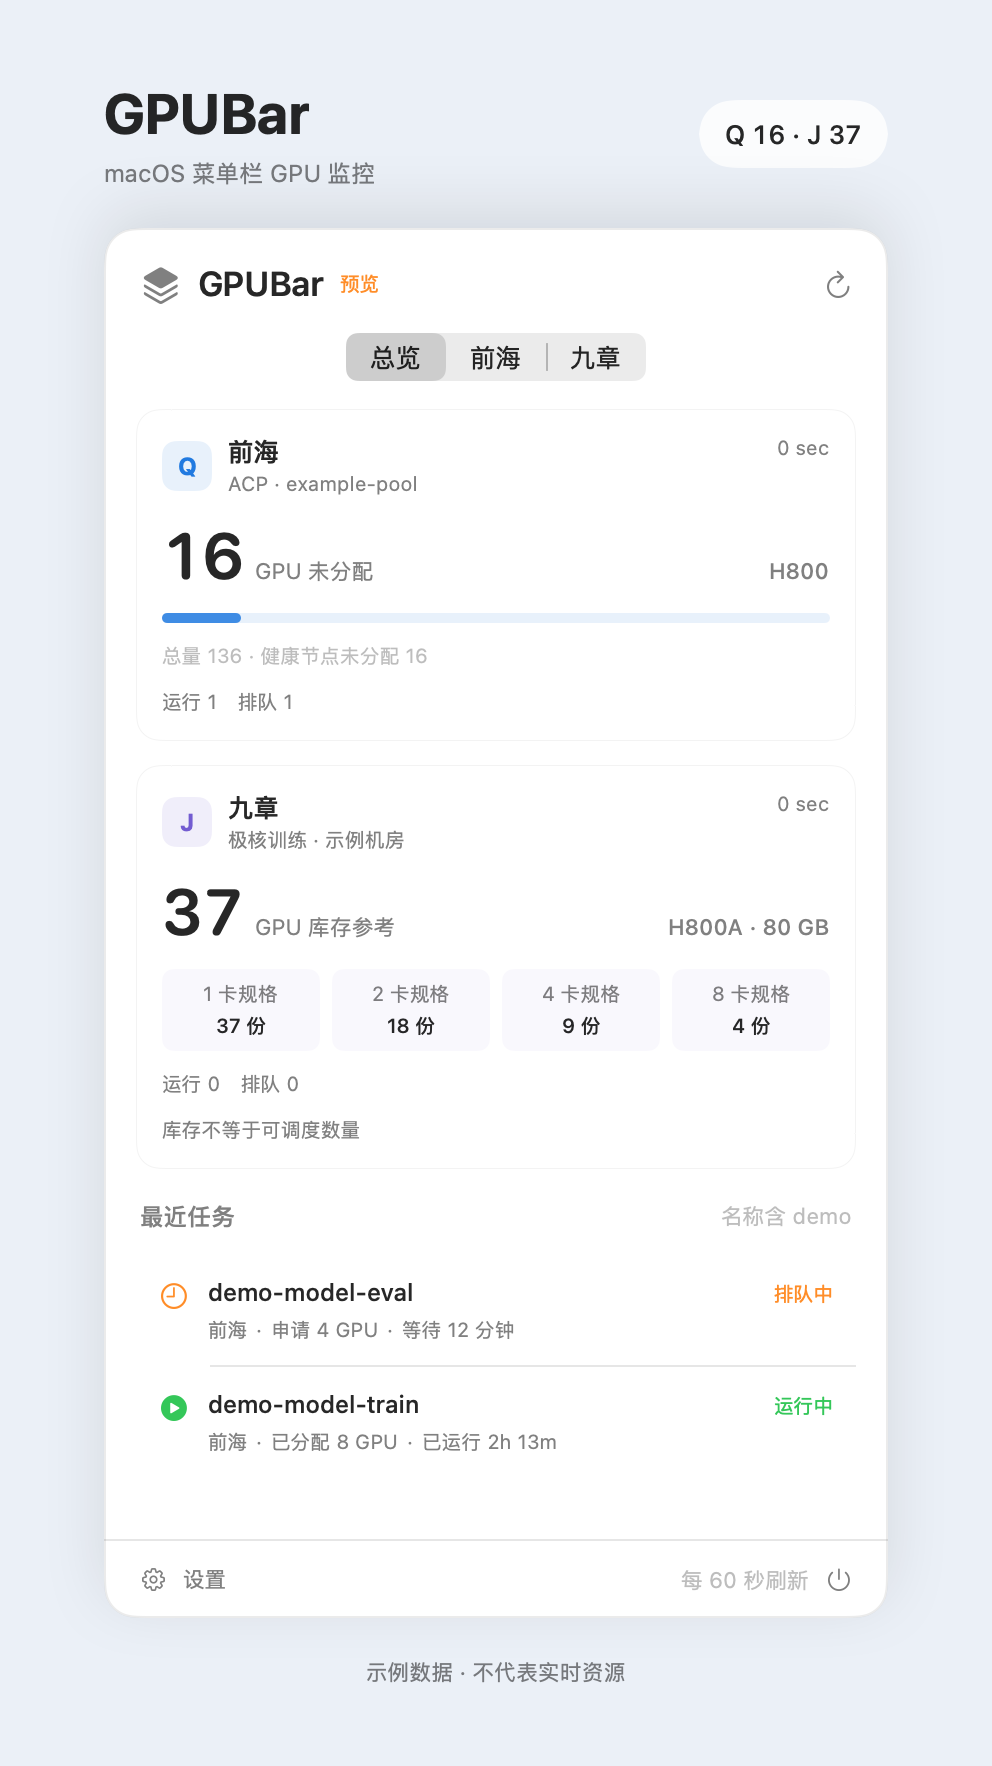
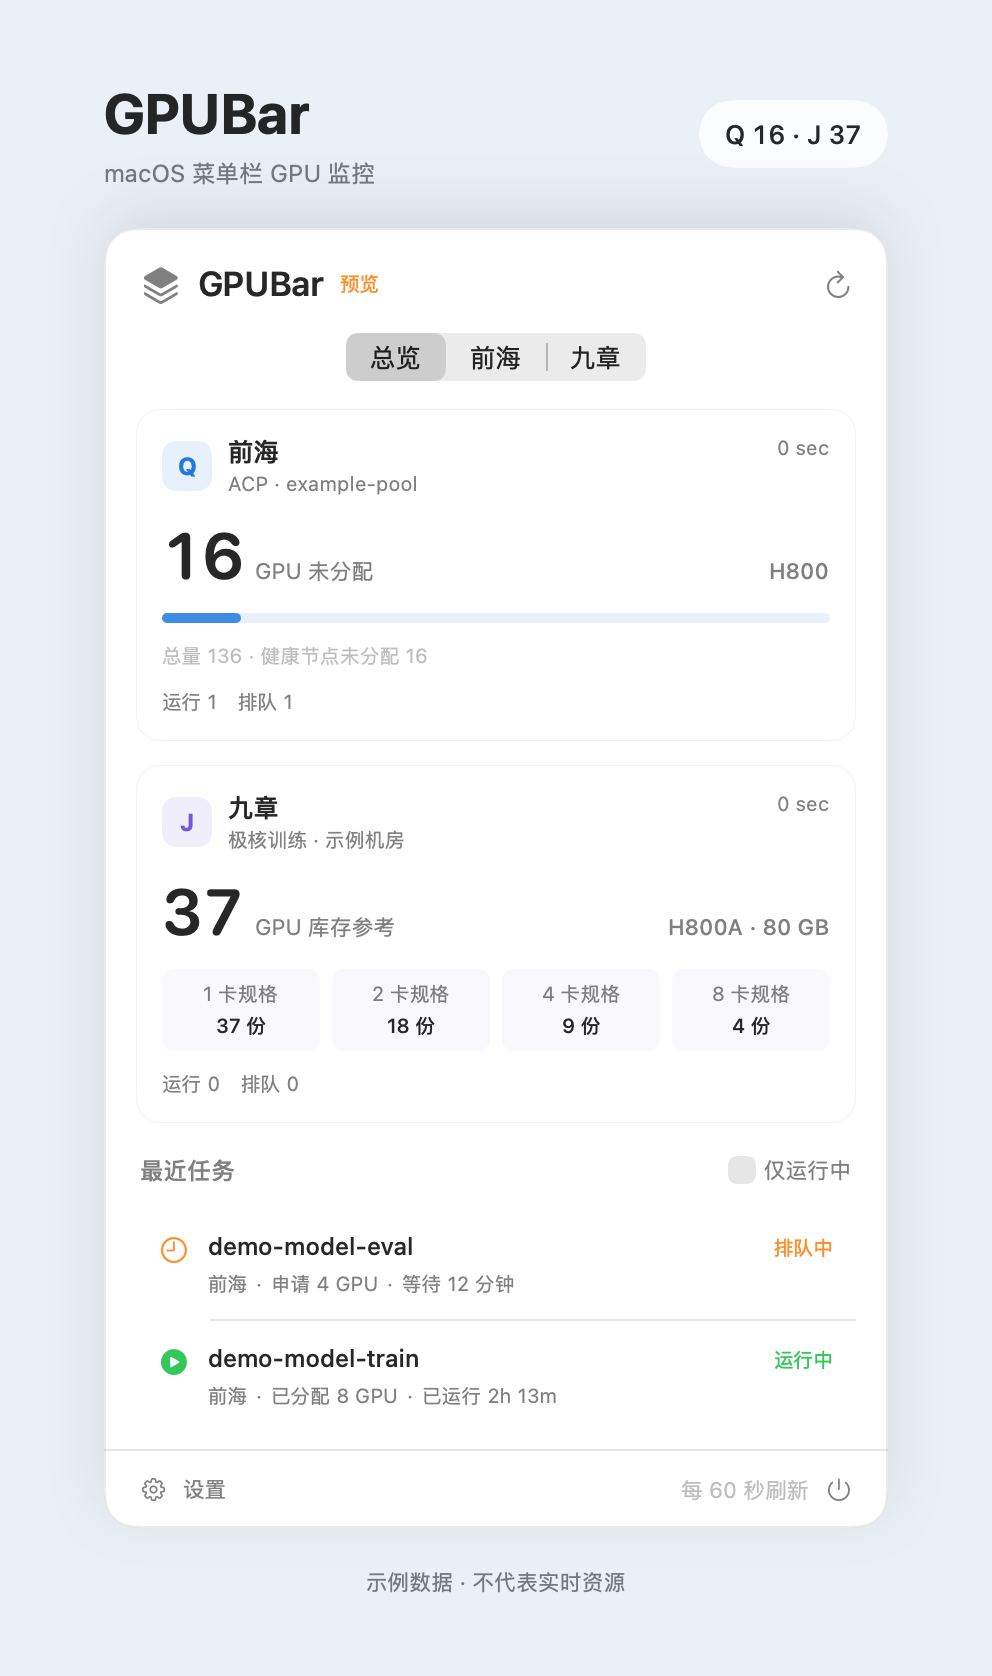
Add running-task filter and adaptive menu bar summary

diff --git a/Sources/GPUBar/Views.swift b/Sources/GPUBar/Views.swift
@@ -31,21 +31,29 @@ extension JobState {
 
 struct MenuLabel: View {
     @ObservedObject var store: AppStore
+    private var platforms: [Platform] {
+        Platform.allCases.filter { store.configured.contains($0) && store.configuration.isConfigured($0) }
+    }
     private var title: String {
-        Platform.allCases.map { platform in
+        platforms.map { platform in
             let value = store.snapshots[platform]?.capacity?.availableGPUs.map(String.init) ?? "—"
             return "\(platform.abbreviation) \(value)"
         }.joined(separator: " · ")
     }
     var body: some View {
-        // MenuBarExtra bridges its label to a native status item. Keep both
-        // platforms in one Text so neither is lost during label extraction.
-        Text(title)
-            .monospacedDigit()
-            .fixedSize()
-            .opacity(Platform.allCases.contains { store.stale($0) } ? 0.55 : 1)
-            .accessibilityLabel("GPUBar GPU 资源摘要：\(title)")
-            .help("Q：前海健康节点未分配 GPU；J：九章所选机房库存参考。点击查看范围与任务。")
+        if platforms.isEmpty {
+            Image(systemName: "square.stack.3d.up.fill")
+                .accessibilityLabel("GPUBar")
+                .help("GPUBar：点击配置平台")
+        } else {
+            // Keep all platforms in one Text for native status-item extraction.
+            Text(title)
+                .monospacedDigit()
+                .fixedSize()
+                .opacity(platforms.contains { store.stale($0) } ? 0.55 : 1)
+                .accessibilityLabel("GPUBar GPU 资源摘要：\(title)")
+                .help("GPUBar：点击查看资源与任务")
+        }
     }
 }
 
@@ -56,7 +64,8 @@ struct DashboardView: View {
     @Environment(\.openWindow) private var openWindow
     private var platforms: [Platform] { selected == "overview" ? Platform.allCases : Platform.allCases.filter { $0.rawValue == selected } }
     private var recentJobs: [Job] {
-        Array(platforms.flatMap { store.snapshots[$0]?.jobs ?? [] }.sorted {
+        Array(platforms.flatMap { store.snapshots[$0]?.jobs ?? [] }
+            .filter { !store.runningOnly || $0.state == .running }.sorted {
             let left = $0.createdAt ?? .distantPast
             let right = $1.createdAt ?? .distantPast
             return left == right ? $0.id < $1.id : left > right
@@ -85,8 +94,9 @@ struct DashboardView: View {
                     HStack {
                         Text("最近任务").font(.system(size: 12, weight: .semibold)).foregroundStyle(.secondary)
                         Spacer()
-                        Text(store.filter.isEmpty ? "全部名称" : "名称含 \(store.filter)")
-                            .font(.system(size: 11)).foregroundStyle(.tertiary).lineLimit(1)
+                        Toggle("仅运行中", isOn: $store.runningOnly)
+                            .toggleStyle(.checkbox).controlSize(.small)
+                            .font(.system(size: 11)).foregroundStyle(.secondary)
                     }.padding(.top, 4).padding(.horizontal, 2)
                     ForEach(platforms) { platform in
                         if let error = store.errors[platform]?["jobs"] {
@@ -129,11 +139,11 @@ struct DashboardView: View {
         if platforms.allSatisfy({ !store.configured.contains($0) }) { return "连接平台以查看任务" }
         if platforms.allSatisfy({ store.snapshots[$0]?.jobsAt == nil }) { return store.refreshing.isEmpty ? "尚未获取任务" : "正在读取任务…" }
         if platforms.contains(where: { store.errors[$0]?["jobs"] != nil }) { return "任务查询未完成" }
-        return "没有匹配的任务"
+        return store.runningOnly ? "没有运行中的任务" : "没有匹配的任务"
     }
     private var emptySubtitle: String {
-        if platforms.allSatisfy({ !store.configured.contains($0) }) { return "在设置中保存两个平台的 Access Key。" }
-        return store.filter.isEmpty ? "显示所选范围内的平台任务。" : "仅显示名称包含“\(store.filter)”的任务。"
+        if platforms.allSatisfy({ !store.configured.contains($0) }) { return "在设置中连接要查看的平台。" }
+        return store.runningOnly ? "取消勾选可查看其他状态的任务。" : "可在设置中调整任务筛选。"
     }
 }
 
@@ -201,7 +211,7 @@ struct CapacityCard: View {
                 if let error = store.errors[platform]?["capacity"] ?? store.errors[platform]?["credentials"] ?? store.errors[platform]?["configuration"] {
                     Label(error, systemImage: "exclamationmark.triangle").font(.system(size: 10)).foregroundStyle(.orange)
                 }
-                if platform == .jiuzhang {
+                if expanded && platform == .jiuzhang {
                     Text("库存不等于可调度数量").font(.system(size: 10)).foregroundStyle(.secondary)
                 }
                 if expanded, let explanation = snapshot.capacity?.explanation {

diff --git a/Sources/GPUBar/Store.swift b/Sources/GPUBar/Store.swift
@@ -19,6 +19,11 @@ final class AppStore: ObservableObject {
     @Published var filter: String
     @Published var interval: Double
     @Published var notifications: Bool
+    @Published var runningOnly: Bool {
+        didSet {
+            if !preview { UserDefaults.standard.set(runningOnly, forKey: "runningJobsOnly") }
+        }
+    }
     @Published var notice: String?
     let preview: Bool
     private var tasks: [Platform: Task<Void, Never>] = [:]
@@ -44,6 +49,7 @@ final class AppStore: ObservableObject {
         let saved = defaults.double(forKey: "refreshInterval")
         self.interval = [30.0, 60, 120, 300].contains(saved) ? saved : 60
         self.notifications = defaults.bool(forKey: "notifyOnCompletion")
+        self.runningOnly = preview ? false : defaults.bool(forKey: "runningJobsOnly")
         if preview { loadPreview(); return }
         if let data = try? Data(contentsOf: cacheURL), let cache = try? JSONDecoder().decode([Platform: Snapshot].self, from: data) {
             snapshots = cache

diff --git a/README.md b/README.md
@@ -8,17 +8,17 @@ GPUBar 将前海 ACP 和九章极核训练的 GPU 资源、任务状态与完成
 
 <img src="docs/images/overview.png" alt="GPUBar 界面示例：菜单栏摘要、前海 GPU 未分配量、九章规格库存，以及排队和运行中的任务" width="496">
 
-原生界面渲染，使用示例数据；面板加高以完整展示任务列表。
+原生界面渲染，使用示例数据。
 
 ## 功能
 
 | 功能 | 使用方式 |
 |---|---|
-| 菜单栏资源摘要 | 同时显示两个平台的数字，例如 `Q 16 · J 37`，随后台刷新更新 |
+| 菜单栏资源摘要 | 按已连接的平台显示数字：单平台如 `Q 16`，双平台如 `Q 16 · J 37`；未配置时显示应用图标 |
 | 双平台总览 | 点击菜单栏查看两平台资源卡片，也可切换到前海或九章单独查看 |
 | GPU 资源明细 | 前海展示总量、健康节点未分配量和比例条；九章展示 GPU 型号及 1／2／4／8 卡等规格的库存 |
 | 任务进展跟踪 | 查看排队、启动、运行、暂停、完成、失败和取消状态，以及等待时间或运行时长 |
-| 任务筛选与详情 | 按名称筛选最近任务，查看 GPU 数量、节点数、时间和平台返回的状态详情，复制任务 ID 或打开控制台 |
+| 任务筛选与详情 | 勾选“仅运行中”快速筛选，也可在设置中按名称筛选；查看任务详情、复制任务 ID 或打开控制台 |
 | 桌面通知 | 任务成功或失败时发送 macOS 通知，显示平台、结果和任务名称 |
 | 自动刷新 | 可选 30 秒、60 秒、2 分钟或 5 分钟，也可随时手动刷新 |
 | 登录启动 | 登录 Mac 后自动运行，在菜单栏持续监控 |
@@ -26,6 +26,8 @@ GPUBar 将前海 ACP 和九章极核训练的 GPU 资源、任务状态与完成
 ### 跟踪任务进展
 
 在“设置 → 任务名称包含”中输入项目名、实验前缀或用户名，例如 `demo`。筛选忽略大小写，留空可查看所选资源范围内的所有任务。面板按创建时间从新到旧显示最近 10 个匹配任务；总览合并两个平台，单平台标签只显示该平台任务。
+
+勾选“最近任务”右侧的“仅运行中”，即可查看所选平台中正在运行的任务；取消勾选后恢复显示所有状态。筛选先于最近 10 条的截取，较早启动的运行任务也能显示。应用记住勾选状态，任务通知仍按设置中的名称和资源范围监控。
 
 每条任务显示名称、状态、所属平台、GPU 数量和耗时。排队或启动中的任务显示等待时间，运行中的任务显示已运行时长，结束任务在平台提供起止时间时显示总用时。资源卡片同时统计匹配任务的运行数和排队数。
 
@@ -51,7 +53,7 @@ GPUBar 将前海 ACP 和九章极核训练的 GPU 资源、任务状态与完成
 
 从 [GitHub Releases](https://github.com/haowen-xiong/GPUBar/releases/latest) 下载 `GPUBar-*-macOS-arm64.zip`，解压后将 `GPUBar.app` 拖入 Applications 并打开。发布包适用于 **macOS 15+、Apple Silicon**。
 
-点击菜单栏中的 `Q — · J —`，进入“设置”连接平台，并按需开启任务通知和登录启动。
+点击菜单栏中的 GPUBar 图标，进入“设置”连接平台，并按需开启任务通知和登录启动。
 
 ## 从源码构建
 
@@ -65,7 +67,7 @@ cd GPUBar
 open dist/GPUBar.app
 ```
 
-启动后，点击菜单栏中的 `Q — · J —`，进入“设置”配置平台。应用可移至 Applications 使用。
+启动后，点击菜单栏中的 GPUBar 图标，进入“设置”配置平台。应用可移至 Applications 使用。
 
 构建采用当前 Mac 的处理器架构，已在 Apple Silicon 上验证；打包脚本使用本机 ad hoc 签名。
 
